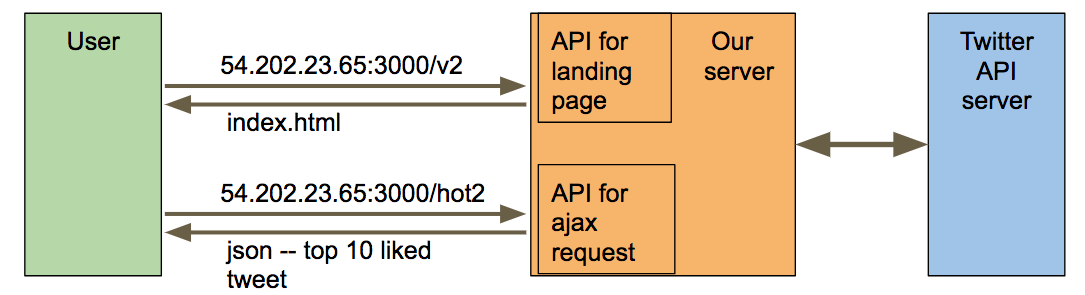
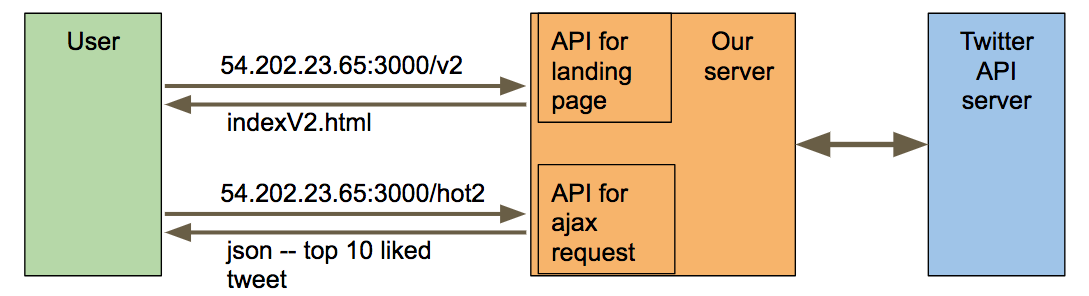
update apiv2.png and minor changes

diff --git a/test/test.js b/test/test.js
@@ -17,7 +17,7 @@ describe('GET /', function() {
     .set('Accept', 'application/json')
     .expect(200)
     .end((err, res) => {
-      console.log(res.text);
+      // console.log(res.text);
       res.text.should.include("Hot tweets");
       done();
     })
@@ -32,7 +32,7 @@ describe('GET /hot?twitterID=nytimes', function() {
     .get('/hot?twitterID='+id)
     .expect(200)
     .end((err, res) => {
-      console.log(res.body);
+      // console.log(res.body);
       res.body.should.be.a('array');
       res.body.length.should.be.eql(10);
       done();
@@ -48,7 +48,7 @@ describe('GET /hot2?twitterID=nytimes', function() {
     .get('/hot2?twitterID='+id)
     .expect(200)
     .end((err, res) => {
-      console.log(res.body);
+      // console.log(res.body);
       res.body.should.be.a('array');
       res.body.length.should.be.eql(10);
       done();

diff --git a/gulpfile.js b/gulpfile.js
@@ -12,13 +12,13 @@ gulp.task('webserver', function() {
   }));
 });
 
-var concat     = require('gulp-concat'),
-minifyCSS  = require('gulp-minify-css'),
-uglify     = require('gulp-uglify'),
-rename     = require("gulp-rename");
-var gutil = require('gulp-util');
-var strip = require('gulp-strip-comments');
-var babel = require('gulp-babel'),
+var concat = require('gulp-concat'),
+minifyCSS = require('gulp-minify-css'),
+uglify = require('gulp-uglify'),
+rename = require("gulp-rename"),
+gutil = require('gulp-util'),
+strip = require('gulp-strip-comments'),
+babel = require('gulp-babel'),
 htmlreplace = require('gulp-html-replace'),
 minifyHTML  = require('gulp-minify-html');
 
